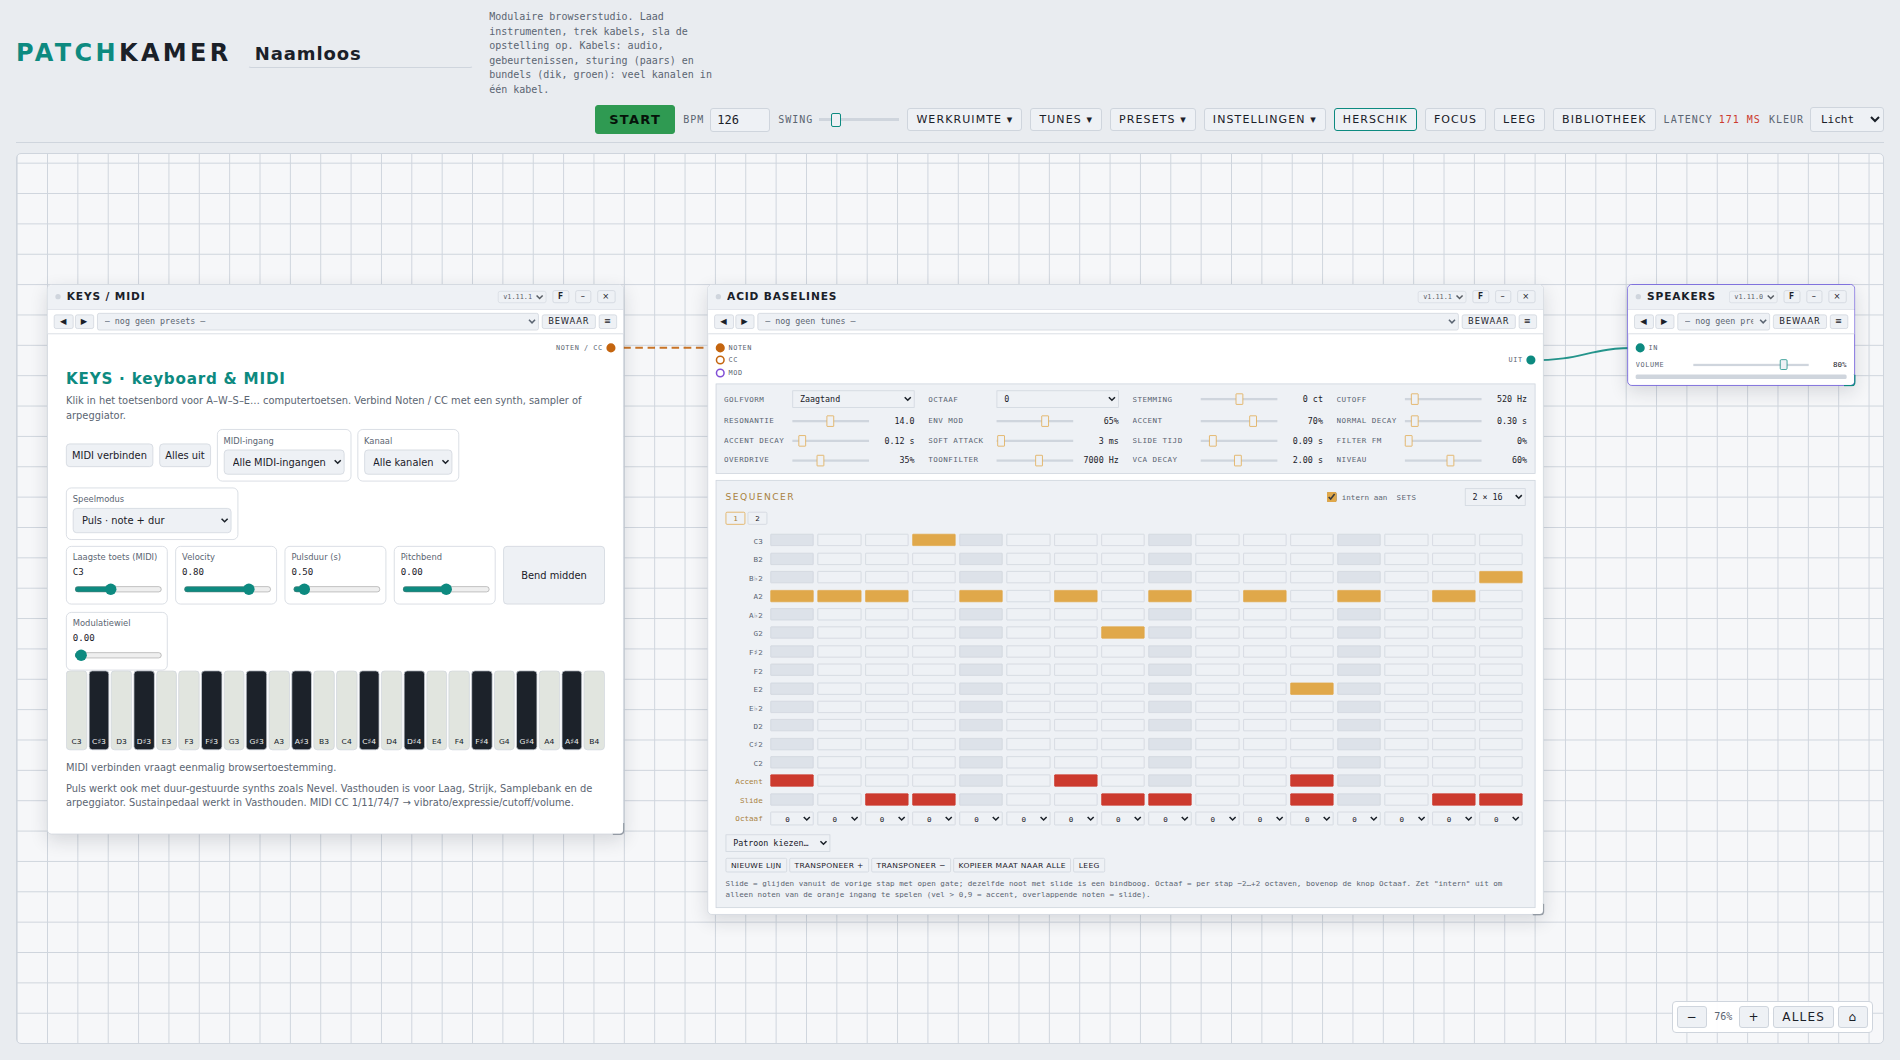
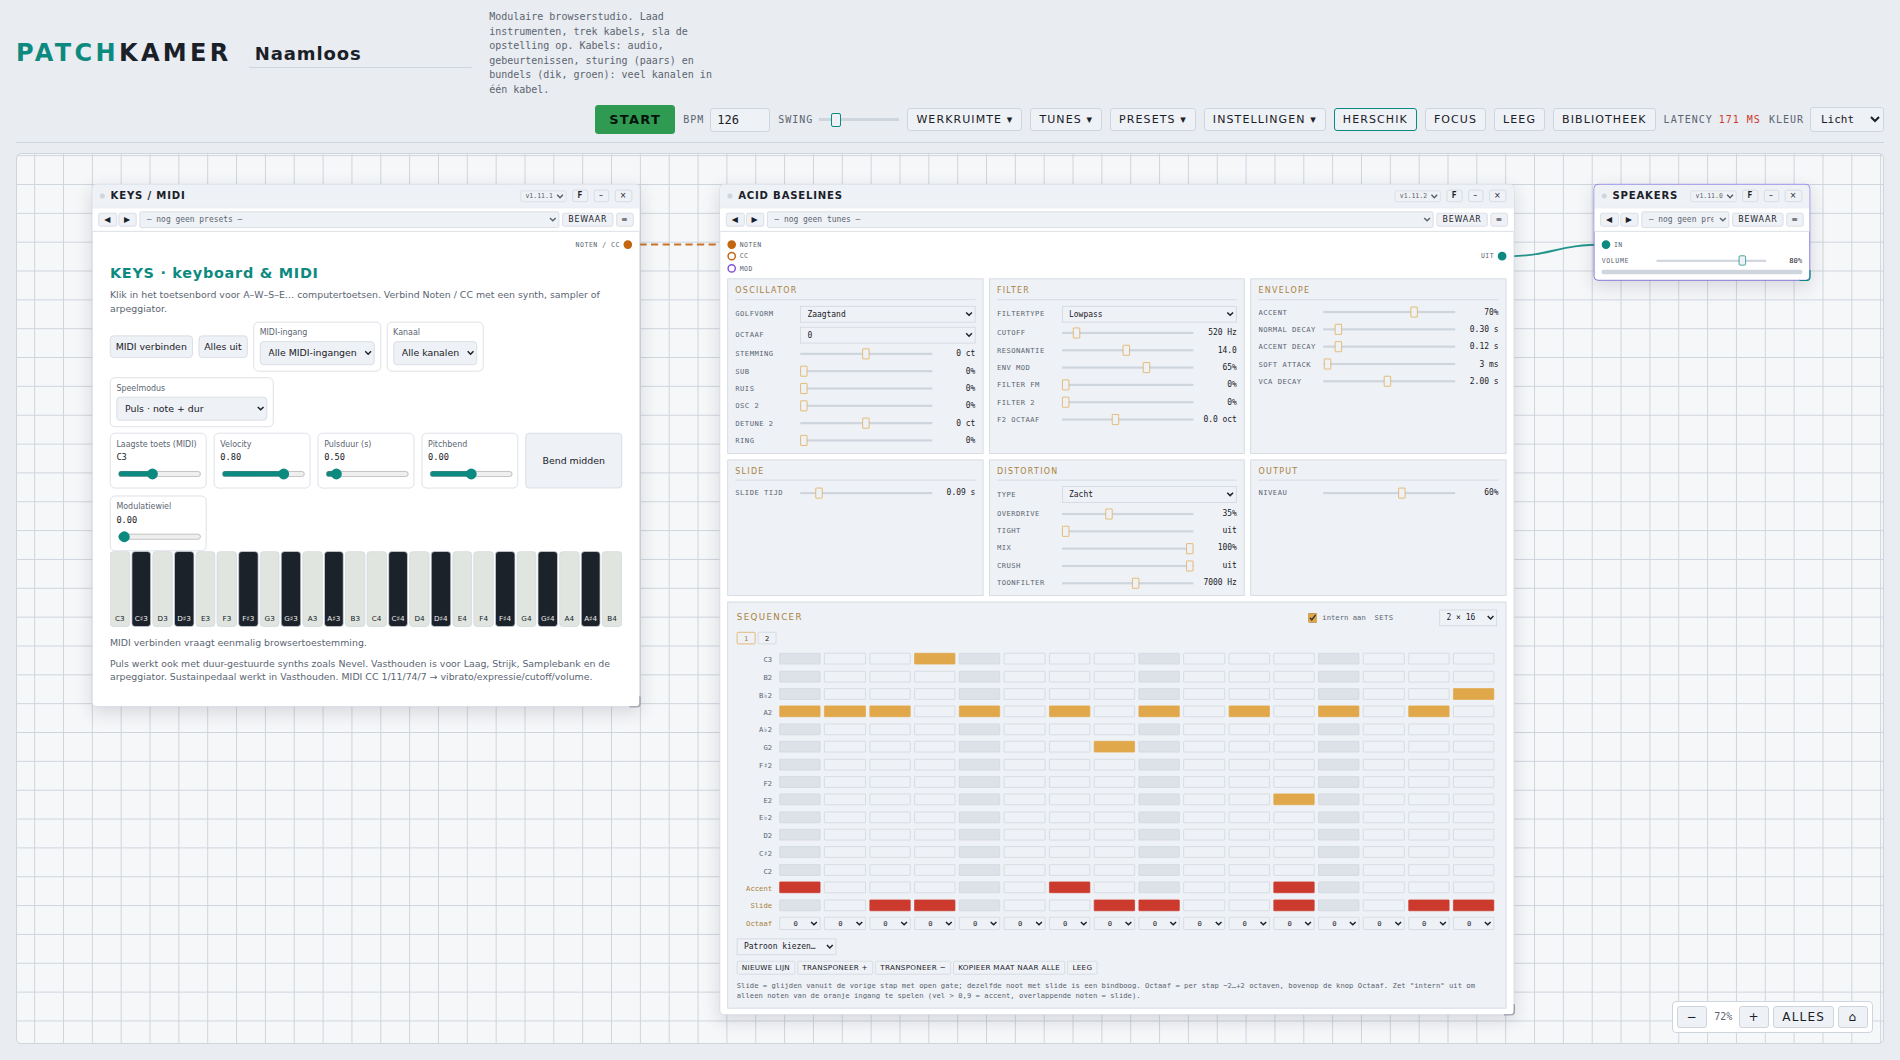
Screenshots: de volledige kaart past op het scherm en alle beelden zijn ververst
Het script gebruikt voor de close-ups een hoger scherm, omdat de kaart van Acid
Baselines met zes secties hoger is dan het standaardscherm. Nederlandse en
Engelse beelden opnieuw gemaakt.

diff --git a/docs/tools/make-screenshots.py b/docs/tools/make-screenshots.py
@@ -100,12 +100,12 @@ def shots(browser, lang, OUT, LIB, BASE):
     pg.screenshot(path=OUT + '/08-focus.png'); done(pg)
     for skin, name in (('light', '03-patch-light'), ('s1000', '03-patch-retro')):
         pg = newpage(nopicker=True, skin=skin); build_patch(pg); pg.screenshot(path=OUT + '/' + name + '.png'); done(pg)
-    pg = newpage(nopicker=True); load_lib(pg); place(pg, 'Acid Baselines'); pg.click('#libToggle'); pg.wait_for_timeout(2500)
+    pg = newpage(h=1500, nopicker=True); load_lib(pg); place(pg, 'Acid Baselines'); pg.click('#libToggle'); pg.wait_for_timeout(2500)   # hoog scherm: de kaart past er helemaal op
     import_tunes(pg); pg.click('#prPanel .close'); pg.wait_for_timeout(300)
     c = pg.locator('.card').first
     c.evaluate("c=>{const s=[...c.querySelectorAll('select')].find(x=>x.options.length>3&&x.options[0].value===''); s.selectedIndex=1; s.dispatchEvent(new Event('change',{bubbles:true}))}"); pg.wait_for_timeout(600)
     shadow_set(c, 'select.pat', 'Squelch'); pg.wait_for_timeout(300); c.screenshot(path=OUT + '/04-acid-baselines.png'); done(pg)
-    pg = newpage(nopicker=True); load_lib(pg); place(pg, 'Keys'); pg.click('#libToggle'); pg.wait_for_timeout(2500)
+    pg = newpage(h=1500, nopicker=True); load_lib(pg); place(pg, 'Keys'); pg.click('#libToggle'); pg.wait_for_timeout(2500)
     pg.locator('.card').first.screenshot(path=OUT + '/05-keys.png'); done(pg)
     for dev, shot in (('Mixer', '11-mixer'), ('Leveler', '12-leveler'), ('Multitrack', '13-multitrack'), ('Notes', '14-notes'), ('Recorder', '15-recorder'), ('Scope', '16-scope')):
         pg = newpage(nopicker=True); load_lib(pg); place(pg, dev); pg.click('#libToggle'); pg.wait_for_timeout(2500)
